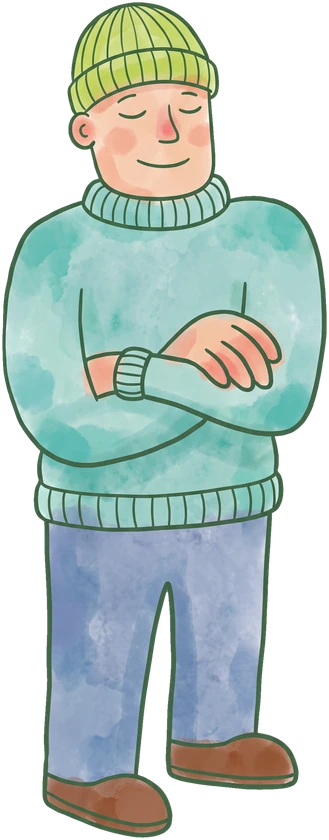
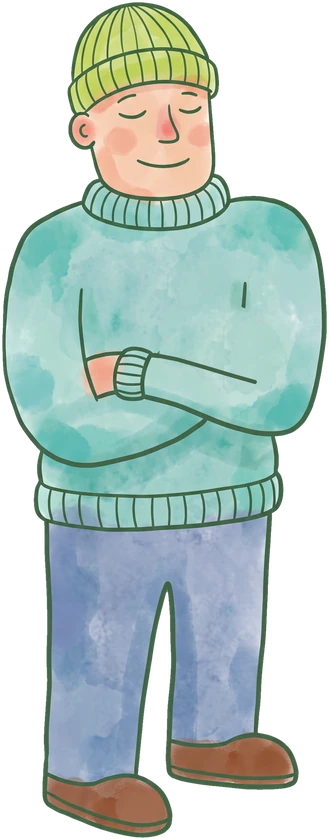
Plates 4.21.0 (source): Gentle Gunnar waves when tapped, with three painted butterflies round him that fly off and come back

Changed region(s): [[0.4863, 0.3714, 0.8815, 0.4643]]

diff --git a/src/app.html b/src/app.html
@@ -111,10 +111,21 @@ body { margin: 0; height: 100%; overflow: hidden; color: var(--text); font: 15px
 .cps.picked, .cps.picked .cp.on { min-height: -webkit-min-content; min-height: min-content; }
 .cps.picked .cp.on { flex-grow: 2.7; border-color: var(--g1); background: color-mix(in srgb, var(--g1) 8%, var(--fill)); }
 .cp-art { position: relative; align-self: stretch; overflow: hidden; pointer-events: none; }
-.cp-art img, .cp-art .cp-ghost { position: absolute; left: 50%; top: 12px; height: 330px; width: auto; aspect-ratio: 329 / 840; translate: -50% 0; transform-origin: 50% 100%; transition: height .6s var(--spring), top .6s var(--spring); -webkit-user-select: none; user-select: none; -webkit-user-drag: none; -webkit-touch-callout: none; }
-.cp-ghost { fill: color-mix(in srgb, var(--dim) 20%, transparent); aspect-ratio: 40 / 100; }
-.cps.picked .cp:not(.on) .cp-art :is(img, .cp-ghost) { height: 250px; top: 7px; }
-.cps.picked .cp.on .cp-art :is(img, .cp-ghost) { height: min(calc(100% - 22px), 360px); top: 12px; animation: cpHop .75s var(--spring), cpBreathe 4.8s ease-in-out .75s infinite; }
+.cp-fig { position: absolute; left: 50%; top: 12px; height: 330px; aspect-ratio: var(--ar, 329 / 840); translate: -50% 0; transform-origin: 50% 100%; transition: height .6s var(--spring), top .6s var(--spring); }
+.cp-fig > * { position: absolute; left: 0; top: 0; width: 100%; height: 100%; -webkit-user-select: none; user-select: none; -webkit-user-drag: none; -webkit-touch-callout: none; }
+.cp-ghost { fill: color-mix(in srgb, var(--dim) 20%, transparent); }
+.cps.picked .cp:not(.on) .cp-fig { height: 250px; top: 7px; }
+.cps.picked .cp.on .cp-fig { height: min(calc(100% - 22px), 360px); top: 12px; animation: cpHop .75s var(--spring), cpBreathe 4.8s ease-in-out .75s infinite; }
+/* Gunnar in layers: his body, the hand that lifts off his arm to wave, and the cuff it tucks under */
+.cp-fig > .gn-h { left: 47.28%; top: 36.52%; width: 41.03%; height: 10.43%; transform-origin: 1% 54.23%; will-change: transform; }
+.cp-fig > .gn-c { left: 33.54%; top: 40.73%; width: 14.05%; height: 7.46%; }
+/* butterflies, painted like the coaches, flutter round Gunnar in his open box */
+.bfs { position: absolute; inset: 0; z-index: 2; overflow: hidden; border-radius: inherit; pointer-events: none; }
+.bf { position: absolute; left: 0; top: 0; width: 34px; height: 28px; margin: -14px 0 0 -17px; will-change: transform; }
+.bf svg { display: block; width: 100%; height: 100%; overflow: visible; }
+.bf .w { transform-box: view-box; transform-origin: 50% 50%; animation: bfFlap .24s ease-in-out infinite alternate; }
+.bf .w:last-of-type { animation-delay: -.01s; }
+@keyframes bfFlap { from { transform: scaleX(1); } to { transform: scaleX(.42); } }
 @keyframes cpHop { 0% { transform: none; } 30% { transform: translateY(-9px) scale(.97, 1.04); } 62% { transform: translateY(1px) scale(1.03, .97); } 100% { transform: none; } }
 @keyframes cpBreathe { 50% { transform: scale(1.012, 1.008); } }
 .cp-tx { display: flex; flex-direction: column; min-width: 0; padding: 14px 0 12px; }
@@ -126,7 +137,7 @@ body { margin: 0; height: 100%; overflow: hidden; color: var(--text); font: 15px
 .cps.picked .cp.on .cp-more { opacity: 1; transform: none; transition-delay: .2s; }
 .cp-more span { font-size: 13px; line-height: 1.35; }
 .cp-more i { display: block; font-style: normal; font-size: 10.5px; font-weight: 700; letter-spacing: .06em; text-transform: uppercase; color: var(--dim); margin-bottom: 1px; }
-@media (prefers-reduced-motion: reduce) { .cp, .cp-art img, .cp-art .cp-ghost, .cp-more { transition: none; } .cps.picked .cp.on .cp-art :is(img, .cp-ghost) { animation: none; } }
+@media (prefers-reduced-motion: reduce) { .cp, .cp-fig, .cp-more { transition: none; } .cps.picked .cp.on .cp-fig { animation: none; } .bfs { display: none; } }
 /* welcome steps */
 .ob { display: flex; flex-direction: column; gap: 16px; padding-bottom: 6px; }
 .ob-step { animation: obIn .45s var(--ease) both; }
@@ -3391,7 +3402,7 @@ function saveGoal(id){
    app, and Claude plans and writes in that coach's voice in the evening review (data README, Trainers). A coach
    without a portrait yet shows a soft silhouette. */
 const TRAINERS = [
-  {id: 'guide', name: 'Gentle Gunnar', who: 'New to the gym', level: 'new', art: 'art/coach-gunnar.webp',
+  {id: 'guide', name: 'Gentle Gunnar', who: 'New to the gym', level: 'new', art: 'art/coach-gunnar.webp', hand: 'art/coach-gunnar-hand.webp', cuff: 'art/coach-gunnar-cuff.webp',
     about: 'Calm, patient and proud of every set. He keeps things simple and never rushes you.',
     how: 'Machines and simple lifts, one tip on every card and small steps up.',
     fits: 'New lifters, or anyone back after a break.',
@@ -3409,11 +3420,76 @@ const trainerId = () => ST().trainer || (ST().level === 'pro' ? 'builder' : 'gui
 const COACH_GHOST = '<svg class="cp-ghost" viewBox="0 0 40 100" aria-hidden="true"><circle cx="20" cy="13" r="9.5"/><path d="M5 40c0-9 6-14 15-14s15 5 15 14v24c0 3-2 5-4 5v27c0 2-1.5 3-3.5 3h-15c-2 0-3.5-1-3.5-3V69c-2 0-4-2-4-5z"/></svg>';
 const coachPick = (cur, picked, cls) => '<div class="cps' + (picked ? ' picked' : '') + (cls ? ' ' + cls : '') + '" role="radiogroup" aria-label="Coach">' + TRAINERS.map(t => {
   const on = picked && t.id === cur;
-  return '<button class="cp' + (on ? ' on' : '') + '" data-a="trainer" data-v="' + t.id + '" role="radio" aria-checked="' + on + '"><span class="cp-art">' +
-    (t.art ? '<img src="' + t.art + '" alt="" draggable="false" onerror="this.style.visibility=\'hidden\'">' : COACH_GHOST) + '</span>' +
+  const img = (src, c) => '<img' + (c ? ' class="' + c + '"' : '') + ' src="' + src + '" alt="" draggable="false" onerror="this.style.visibility=\'hidden\'">';
+  return '<button class="cp' + (on ? ' on' : '') + '" data-a="trainer" data-v="' + t.id + '" role="radio" aria-checked="' + on + '"><span class="cp-art"><span class="cp-fig"' + (t.art ? '' : ' style="--ar: 40 / 100"') + '>' +
+    (t.art ? img(t.art) + (t.hand ? img(t.hand, 'gn-h') + img(t.cuff, 'gn-c') : '') : COACH_GHOST) + '</span></span>' + (t.hand ? '<span class="bfs" aria-hidden="true"></span>' : '') +
     '<span class="cp-tx"><b>' + t.name + '</b><em>' + t.who + '</em><small>' + t.about + '</small><span class="cp-more">' +
     [['Trains', t.how], ['Best for', t.fits], ['Messages', t.talk]].filter(r => r[1]).map(r => '<span><i>' + r[0] + '</i>' + r[1] + '</span>').join('') + '</span></span></button>';
 }).join('') + '</div>';
+/* Gunnar comes alive in the coach picker. While his box is open he breathes and three painted butterflies drift
+   round him. A tap makes him hop, lift his hand off his arm and wave; the butterflies take fright and fly off, and
+   after a few seconds they come back one by one. They steer with soft springs toward a slow orbit round his head and
+   body, with a flutter on top. It all runs only while his open box is on screen, and not at all with reduced motion. */
+const BF_DEFS = "<radialGradient id=\"bfg-lime\" cx=\".85\" cy=\".55\" r=\"1\"><stop offset=\"0\" stop-color=\"#fff\" stop-opacity=\".55\"/><stop offset=\".3\" stop-color=\"#E3EC9C\"/><stop offset=\".72\" stop-color=\"#E3EC9C\"/><stop offset=\"1\" stop-color=\"#A7BF4A\"/></radialGradient><g id=\"bfw-lime\"><path d=\"M-.6-.6C-1.8-5.8-6.4-9.6-10.4-9-12.2-8.7-12.4-6.4-11.2-4.6-9.8-2.4-6.6-.4-.6.3z\" fill=\"url(#bfg-lime)\"/><path d=\"M-.6.7C-4.2.9-8.6 2.4-8.6 5.4-8.6 7.4-6.6 8.6-4.6 7.8-3.6 8.8-1.6 8.4-1.2 6.6-.8 5-.6 2.8-.5 1.4z\" fill=\"url(#bfg-lime)\"/><path d=\"M-.9-.3-8.4-7.2M-.9 0-10.7-5M-.9 1.4-7 5.8M-.9 1.6-4.2 7.4\" stroke=\"#A7BF4A\" stroke-width=\".45\" stroke-linecap=\"round\" opacity=\".55\"/><circle cx=\"-7.6\" cy=\"-4.6\" r=\"1.75\" fill=\"#F09CC0\" stroke=\"#37613C\" stroke-width=\".45\"/><circle cx=\"-5.2\" cy=\"4.9\" r=\"1.05\" fill=\"#F09CC0\"/><circle cx=\"-10.3\" cy=\"-7.7\" r=\".55\" fill=\"#fff\" opacity=\".9\"/><circle cx=\"-11.4\" cy=\"-5.9\" r=\".5\" fill=\"#fff\" opacity=\".9\"/><circle cx=\"-7.6\" cy=\"7.2\" r=\".45\" fill=\"#fff\" opacity=\".85\"/><g fill=\"none\" stroke=\"#37613C\" stroke-width=\".95\" stroke-linejoin=\"round\"><path d=\"M-.6-.6C-1.8-5.8-6.4-9.6-10.4-9-12.2-8.7-12.4-6.4-11.2-4.6-9.8-2.4-6.6-.4-.6.3z\"/><path d=\"M-.6.7C-4.2.9-8.6 2.4-8.6 5.4-8.6 7.4-6.6 8.6-4.6 7.8-3.6 8.8-1.6 8.4-1.2 6.6-.8 5-.6 2.8-.5 1.4z\"/></g></g><radialGradient id=\"bfg-pink\" cx=\".85\" cy=\".55\" r=\"1\"><stop offset=\"0\" stop-color=\"#fff\" stop-opacity=\".55\"/><stop offset=\".3\" stop-color=\"#FAC3DA\"/><stop offset=\".72\" stop-color=\"#FAC3DA\"/><stop offset=\"1\" stop-color=\"#DE76A6\"/></radialGradient><g id=\"bfw-pink\"><path d=\"M-.6-.6C-1.8-5.8-6.4-9.6-10.4-9-12.2-8.7-12.4-6.4-11.2-4.6-9.8-2.4-6.6-.4-.6.3z\" fill=\"url(#bfg-pink)\"/><path d=\"M-.6.7C-4.2.9-8.6 2.4-8.6 5.4-8.6 7.4-6.6 8.6-4.6 7.8-3.6 8.8-1.6 8.4-1.2 6.6-.8 5-.6 2.8-.5 1.4z\" fill=\"url(#bfg-pink)\"/><path d=\"M-.9-.3-8.4-7.2M-.9 0-10.7-5M-.9 1.4-7 5.8M-.9 1.6-4.2 7.4\" stroke=\"#DE76A6\" stroke-width=\".45\" stroke-linecap=\"round\" opacity=\".55\"/><circle cx=\"-7.6\" cy=\"-4.6\" r=\"1.75\" fill=\"#D9E38E\" stroke=\"#37613C\" stroke-width=\".45\"/><circle cx=\"-5.2\" cy=\"4.9\" r=\"1.05\" fill=\"#D9E38E\"/><circle cx=\"-10.3\" cy=\"-7.7\" r=\".55\" fill=\"#fff\" opacity=\".9\"/><circle cx=\"-11.4\" cy=\"-5.9\" r=\".5\" fill=\"#fff\" opacity=\".9\"/><circle cx=\"-7.6\" cy=\"7.2\" r=\".45\" fill=\"#fff\" opacity=\".85\"/><g fill=\"none\" stroke=\"#37613C\" stroke-width=\".95\" stroke-linejoin=\"round\"><path d=\"M-.6-.6C-1.8-5.8-6.4-9.6-10.4-9-12.2-8.7-12.4-6.4-11.2-4.6-9.8-2.4-6.6-.4-.6.3z\"/><path d=\"M-.6.7C-4.2.9-8.6 2.4-8.6 5.4-8.6 7.4-6.6 8.6-4.6 7.8-3.6 8.8-1.6 8.4-1.2 6.6-.8 5-.6 2.8-.5 1.4z\"/></g></g><radialGradient id=\"bfg-coral\" cx=\".85\" cy=\".55\" r=\"1\"><stop offset=\"0\" stop-color=\"#fff\" stop-opacity=\".55\"/><stop offset=\".3\" stop-color=\"#FBC7AE\"/><stop offset=\".72\" stop-color=\"#FBC7AE\"/><stop offset=\"1\" stop-color=\"#E4876A\"/></radialGradient><g id=\"bfw-coral\"><path d=\"M-.6-.6C-1.8-5.8-6.4-9.6-10.4-9-12.2-8.7-12.4-6.4-11.2-4.6-9.8-2.4-6.6-.4-.6.3z\" fill=\"url(#bfg-coral)\"/><path d=\"M-.6.7C-4.2.9-8.6 2.4-8.6 5.4-8.6 7.4-6.6 8.6-4.6 7.8-3.6 8.8-1.6 8.4-1.2 6.6-.8 5-.6 2.8-.5 1.4z\" fill=\"url(#bfg-coral)\"/><path d=\"M-.9-.3-8.4-7.2M-.9 0-10.7-5M-.9 1.4-7 5.8M-.9 1.6-4.2 7.4\" stroke=\"#E4876A\" stroke-width=\".45\" stroke-linecap=\"round\" opacity=\".55\"/><circle cx=\"-7.6\" cy=\"-4.6\" r=\"1.75\" fill=\"#FBEAB0\" stroke=\"#37613C\" stroke-width=\".45\"/><circle cx=\"-5.2\" cy=\"4.9\" r=\"1.05\" fill=\"#FBEAB0\"/><circle cx=\"-10.3\" cy=\"-7.7\" r=\".55\" fill=\"#fff\" opacity=\".9\"/><circle cx=\"-11.4\" cy=\"-5.9\" r=\".5\" fill=\"#fff\" opacity=\".9\"/><circle cx=\"-7.6\" cy=\"7.2\" r=\".45\" fill=\"#fff\" opacity=\".85\"/><g fill=\"none\" stroke=\"#37613C\" stroke-width=\".95\" stroke-linejoin=\"round\"><path d=\"M-.6-.6C-1.8-5.8-6.4-9.6-10.4-9-12.2-8.7-12.4-6.4-11.2-4.6-9.8-2.4-6.6-.4-.6.3z\"/><path d=\"M-.6.7C-4.2.9-8.6 2.4-8.6 5.4-8.6 7.4-6.6 8.6-4.6 7.8-3.6 8.8-1.6 8.4-1.2 6.6-.8 5-.6 2.8-.5 1.4z\"/></g></g>", BF_BODY = "<ellipse fill=\"#37613C\" rx=\".95\" ry=\"4.2\" cy=\"1\"/><circle fill=\"#37613C\" cy=\"-3.6\" r=\"1.15\"/><path fill=\"none\" stroke=\"#37613C\" stroke-width=\".7\" stroke-linecap=\"round\" d=\"M-.4-4.3C-1-6.8-2.2-8.2-3.4-8.6M.4-4.3C1-6.8 2.2-8.2 3.4-8.6\"/><circle fill=\"#37613C\" cx=\"-3.5\" cy=\"-8.6\" r=\".6\"/><circle fill=\"#37613C\" cx=\"3.5\" cy=\"-8.6\" r=\".6\"/>", BF_COLS = ['lime', 'pink', 'coral'];
+let bfDefs = false;
+function bfDefine(){ if(bfDefs) return; bfDefs = true; document.body.insertAdjacentHTML('beforeend', '<svg width="0" height="0" style="position:absolute" aria-hidden="true"><defs>' + BF_DEFS + '</defs></svg>'); }
+const bfHtml = col => '<svg viewBox="-12 -10 24 20"><g class="w"><use href="#bfw-' + col + '"/></g><g class="w"><g transform="scale(-1 1)"><use href="#bfw-' + col + '"/></g></g>' + BF_BODY + '</svg>';
+const GN = {raf: 0, card: null, bfs: [], hand: {x: 0, v: 0, t: 0}, seq: [], last: 0, backAt: 0, nextAt: 0};
+const gnCard = () => [...document.querySelectorAll('.cps.picked .cp.on[data-v="guide"]')].find(c => c.offsetParent !== null && !c.closest('.modal:not(.open), .sheet-wrap:not(.open)')) || null;
+function gnLive(){ if(!GN.raf && !reduceMotion() && gnCard()) GN.raf = requestAnimationFrame(gnTick); }
+// where he is in the card's own pixels (the sheet may be zoomed for large text)
+function gnGeo(card){
+  const cr = card.getBoundingClientRect(), k = card.offsetWidth / (cr.width || 1), f = card.querySelector('.cp-fig').getBoundingClientRect();
+  const fx = (f.left - cr.left) * k, fy = (f.top - cr.top) * k, fw = f.width * k, fh = f.height * k;
+  return {w: card.offsetWidth, h: card.offsetHeight, cx: fx + fw * .42, cy: fy + fh * .27, rx: Math.max(38, fw * .42), ry: Math.max(56, fh * .3)};
+}
+function bfAdd(g){
+  const used = GN.bfs.map(b => b.col), col = BF_COLS.find(c => !used.includes(c)) || BF_COLS[Math.floor(Math.random() * 3)], el = document.createElement('i'), left = Math.random() < .5;
+  el.className = 'bf'; el.innerHTML = bfHtml(col); GN.card.querySelector('.bfs').append(el);
+  const b = {el, col, x: left ? -16 : g.w + 16, y: g.cy - 50 + Math.random() * 100, vx: left ? 80 : -80, vy: -25, a: left ? 90 : -90, ph: Math.random() * 6.3,
+    th: left ? Math.PI : 0, dir: Math.random() < .5 ? -1 : 1, sp: .5 + Math.random() * .35, flee: false, sc: .9 + Math.random() * .25};
+  GN.bfs.push(b); return b;
+}
+function gnPlay(card){
+  if(reduceMotion()) return;
+  GN.card = card; const now = performance.now();
+  // the wave: lift the hand, waggle it three times, put it back
+  GN.seq = [[0, -30], [230, -19], [390, -33], [550, -19], [710, -31], [880, -21], [1180, 0]].map(([d, a]) => [now + d, a]);
+  const fig = card.querySelector('.cp-fig'); fig.style.animation = 'none'; void fig.offsetWidth; fig.style.animation = '';
+  // the butterflies take fright and come back a few seconds later
+  // (when his box has just opened there are none yet, so they flutter in right away)
+  const had = GN.bfs.some(b => !b.flee);
+  GN.bfs.forEach(b => { b.flee = true; b.vx += (b.x < card.offsetWidth * .3 ? -1 : 1) * 160; b.vy -= 120; });
+  GN.backAt = now + (had ? 3400 : 500); GN.nextAt = GN.backAt;
+  gnLive();
+}
+function gnTick(t){
+  GN.raf = 0;
+  const card = gnCard();
+  if(!card || reduceMotion()){ GN.bfs.forEach(b => b.el.remove()); GN.bfs = []; GN.card = null; GN.seq = []; GN.last = 0; return; }
+  bfDefine();
+  if(GN.card !== card){ GN.card = card; const box = card.querySelector('.bfs'); GN.bfs.forEach(b => box.append(b.el)); }
+  const dt = Math.min(.034, Math.max(.001, (t - (GN.last || t - 16)) / 1000)); GN.last = t;
+  const g = gnGeo(card);
+  // three butterflies keep him company, coming in one at a time
+  if(t > GN.backAt && t > GN.nextAt && GN.bfs.filter(b => !b.flee).length < 3){ bfAdd(g); GN.nextAt = t + 650 + Math.random() * 500; }
+  // the hand
+  const H = GN.hand; while(GN.seq.length && t >= GN.seq[0][0]) H.t = GN.seq.shift()[1];
+  H.v += (-260 * (H.x - H.t) - 22 * H.v) * dt; H.x += H.v * dt;
+  if(Math.abs(H.x) < .05 && Math.abs(H.v) < .05 && !GN.seq.length) H.x = H.v = 0;
+  const he = card.querySelector('.gn-h'); if(he) he.style.transform = H.x ? 'rotate(' + H.x.toFixed(2) + 'deg)' : '';
+  for(const b of GN.bfs){
+    let tx, ty, k = 16, c = 4.2;
+    if(b.flee){ tx = b.x < g.w * .3 ? -80 : g.w + 80; ty = b.y - 70; k = 9; c = 1.6; }
+    else { b.th += b.dir * b.sp * dt; tx = g.cx + Math.cos(b.th) * g.rx + Math.sin(t * .0017 + b.ph) * 10; ty = g.cy + Math.sin(b.th) * g.ry * .85 + Math.sin(t * .0023 + b.ph * 2) * 12; }
+    const ax = k * (tx - b.x) - c * b.vx + Math.sin(t * .011 + b.ph) * 70, ay = k * (ty - b.y) - c * b.vy + Math.cos(t * .0137 + b.ph) * 90;
+    b.vx += ax * dt; b.vy += ay * dt; b.x += b.vx * dt; b.y += b.vy * dt;
+    const want = Math.atan2(b.vy, b.vx) * 180 / Math.PI + 90, d = ((want - b.a + 540) % 360) - 180; b.a += d * Math.min(1, dt * 5);
+    b.el.style.transform = 'translate(' + b.x.toFixed(1) + 'px,' + (b.y + Math.sin(t * .021 + b.ph) * 1.6).toFixed(1) + 'px) rotate(' + b.a.toFixed(1) + 'deg) scale(' + b.sc + ')';
+  }
+  GN.bfs = GN.bfs.filter(b => { const gone = b.flee && (b.x < -40 || b.x > g.w + 40 || b.y < -40); if(gone) b.el.remove(); return !gone; });
+  GN.raf = requestAnimationFrame(gnTick);
+}
 
 /* Welcome steps for a new account: name, trainer, exercises you love or avoid, and a goal of each kind. They save to
    the same places as Settings, Coach, so everything can be changed there later. */
@@ -3448,6 +3524,7 @@ function renderOb(){
     '<div class="ob-nav">' + (o.step ? '<button class="btn-glass" data-a="ob-back">Back</button>' : '<button class="btn-glass" data-a="ob-skip">Skip</button>') +
     '<button class="btn-primary" data-a="ob-next"' + (o.step === 1 && !o.picked ? ' disabled' : '') + '>' + (last ? 'Finish' : 'Next') + '</button></div>';
   $('#sheet-body').scrollTop = 0;
+  if(o.step === 1) setTimeout(gnLive, 600);
 }
 function finishOb(){
   const o = S.ui.ob; if(!o) return;
@@ -4642,6 +4719,7 @@ function openSettings(panel){
   if(panel) S.ui.setPanel = panel;
   renderSettings();
   const m = $('#setModal'); m.classList.add('open'); m.inert = false; document.body.classList.add('set-open');
+  setTimeout(gnLive, 450);
 }
 function closeSettings(){ const m = $('#setModal'); m.classList.remove('open'); m.inert = true; document.body.classList.remove('set-open'); }
 const srow = (title, desc, ctl) => '<div class="srow"><div><b>' + esc(title) + '</b>' + (desc ? '<small>' + desc + '</small>' : '') + '</div>' + ctl + '</div>';
@@ -4786,6 +4864,7 @@ document.addEventListener('input', e => {
 /* What changed in each version. Rate each change from one to five; the ratings are saved with your data so Claude
    can see which fixes worked. */
 const UPDATES = [
+  {v: '4.21.0', date: '2026-10-21', items: [['gunnarwave', 'Tap Gentle Gunnar: he lifts his hand and waves while butterflies flutter out, and one lands on his beanie'], ['butterflies', 'Two butterflies keep Gunnar company while his box is open']]},
   {v: '4.20.1', date: '2026-10-21', items: [['warmslide', 'Warm-up and cardio use the same sliders as the exercises when Weight and reps is set to Slide'], ['warmact', 'The warm-up activity picker shows again with sliders on']]},
   {v: '4.20.0', date: '2026-10-21', items: [['warmlog', 'Warm-up logs time and distance from the machine, with the pace and how it compares with last time'], ['warmfeel', 'Rate the warm-up: Easy, Good or Hard'], ['notarget', 'No Target box on the cards. Reset sits by RIR once you change the numbers']]},
   {v: '4.19.0', date: '2026-10-21', items: [['coaches', 'Meet the coaches: tap one and it steps forward to say how it trains and who it suits'], ['gunnar', 'Gentle Gunnar, the calm coach for new lifters, with his own portrait'], ['setcoach', 'The same coach boxes in Settings, Coach']]},
@@ -5162,9 +5241,10 @@ document.addEventListener('click', e => {
       grp.classList.add('picked');
       if(S.ui.ob && b.closest('#ob')){ S.ui.ob.trainer = t.id; S.ui.ob.picked = true; const nx = $('#ob [data-a="ob-next"]'); if(nx) nx.disabled = false; }
       else { saveSettings({trainer: t.id, level: t.level}); toast(t.name + ' is your coach'); }
+      if(t.hand) setTimeout(() => { const c = gnCard(); if(c) gnPlay(c); }, 120);
       break;
     }
-    case 'set-panel': S.ui.setPanel = b.dataset.p; renderSettings(); break;
+    case 'set-panel': S.ui.setPanel = b.dataset.p; renderSettings(); setTimeout(gnLive, 300); break;
     case 'coach-goals': closeSettings(); S.ui.pg = 'records'; selectTab(3); renderProgress(); break;
     case 'ob-open': closeSettings(); setTimeout(openOnboard, 250); break;
     case 'ob-x': { const o = S.ui.ob, n = b.dataset.n; if(!o) break; const nx = {fine: 'love', love: 'avoid', avoid: 'fine'}[o.prefs[n]] || 'love'; o.prefs[n] = nx; b.dataset.p = nx; break; }
@@ -5310,7 +5390,7 @@ document.addEventListener('click', e => {
     case 'rest-close': stopRest(); break;
   }
 });
-$('#setNav').addEventListener('click', e => { const b = e.target.closest('button[data-p]'); if(!b) return; S.ui.setPanel = b.dataset.p; renderSettings(); });
+$('#setNav').addEventListener('click', e => { const b = e.target.closest('button[data-p]'); if(!b) return; S.ui.setPanel = b.dataset.p; renderSettings(); setTimeout(gnLive, 300); });
 function saveSettings(patch){
   const settings = Object.assign({}, ST(), patch);
   queue('set', 'meta', 'logg', Object.assign({}, D.meta, {settings, updatedAt: Date.now()}));

diff --git a/src/build.py b/src/build.py
@@ -11,7 +11,7 @@ from PIL import Image, ImageDraw, ImageFilter
 
 ROOT = Path(__file__).parent
 DIST = ROOT.parent
-VERSION = "4.20.1"
+VERSION = "4.21.0"
 
 HEAD = """<!doctype html>
 <html lang="en">

diff --git a/CLAUDE.md b/CLAUDE.md
@@ -15,6 +15,7 @@ Installable web app on GitHub Pages: https://sebastianfroiland.github.io/toppfor
 - Food is photo only: no typed foods or calories. Meals are saved as `status: "pending"` and Claude analyses them in the evening review, using `meta.hand` as the ruler. Keep the analysis behind the pending status so a model on the phone can replace the review later without changing the page.
 - Purple is the mascot. On Today he hides behind the Coach Claude card with his fingers over its edge, peeks now and then, and drops out of sight when tapped while his cap hangs in the air and falls after him (`#pp`, `purpleShow`, `purpleTap`, springs in `purpleTick`). His parts are `src/pp-*.webp`, made by `Trening/plates-art/purple-peek/lag_deler.py` from the approved `plates-art/purple.png`; the build copies every `src/*.webp` to `art/` and the service worker caches them. Keep the painted style with dark green outlines for the trainers.
 - The coaches are Gentle Gunnar (`guide`), Bulky Bjørn (`builder`) and Iron Ingrid (`elite`) in `TRAINERS`, and their voices are in the data README under Trainers. `coachPick` shows them as three equal boxes in the welcome steps and in Settings, Coach; the one you tap grows and squeezes the other two. On an iPhone 14 the welcome step fits with no scroll; on a smaller screen the sheet scrolls rather than cutting the open box's text. A portrait is `src/coach-<name>.webp`, 840 px tall, cut from `Trening/plates-art/<name>.png` (made in Figma Weave from Sebastian's reference with Purple as the style reference). A coach without one shows a silhouette.
+- Gunnar is alive in the picker (`GN`, `gnTick`): while his box is open he breathes and three painted butterflies (SVG, `BF_DEFS`) drift round him; a tap makes him hop and wave with his top hand (`coach-gunnar-hand.webp`, which lifts off his arm while the arms stay crossed and tucks under `coach-gunnar-cuff.webp`), and the butterflies fly off and come back one by one a few seconds later. The parts come from `Trening/plates-art/gunnar-wave/lag_deler.py`. It runs only while his open box is on screen, and not with reduced motion.
 - The tab bar hides only while you type (`body.kb`). `typingField` must match real text fields only: the hidden switches that make the iPhone tick are checkboxes, and counting them once hid the tab bar at random. The bars also sit in their own layers (`will-change`, `backface-visibility`).
 - Exercise cards start on the recommended weight, reps and RIR (`recFor`: today's target from Claude, else the next step from last time) with no tips and no Target box. Reset appears by the RIR label once you change the numbers and puts them back, for that card's next set only.
 - A warm-up has no timer: you type the time and distance from the machine, it shows the pace and how it compares with the last time (`paceVs`), you rate it Easy, Good or Hard (`effort`), then Done or Not done. Time and distance follow the Weight and reps setting, so with Slide they get the same sliders as the exercises (a time slider is in seconds and shows m:ss). Cardio cards keep their timer.
